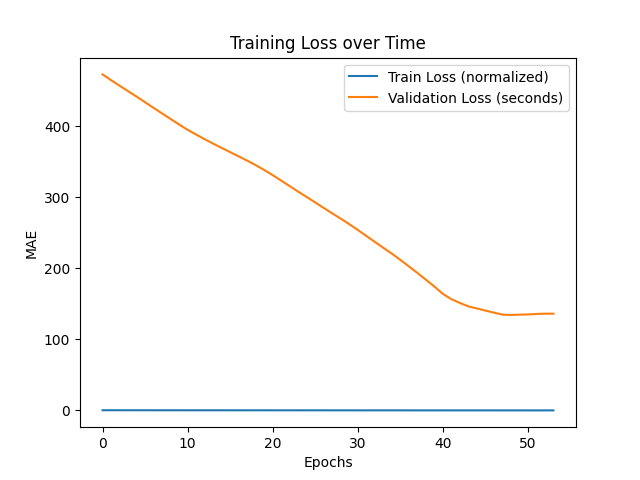
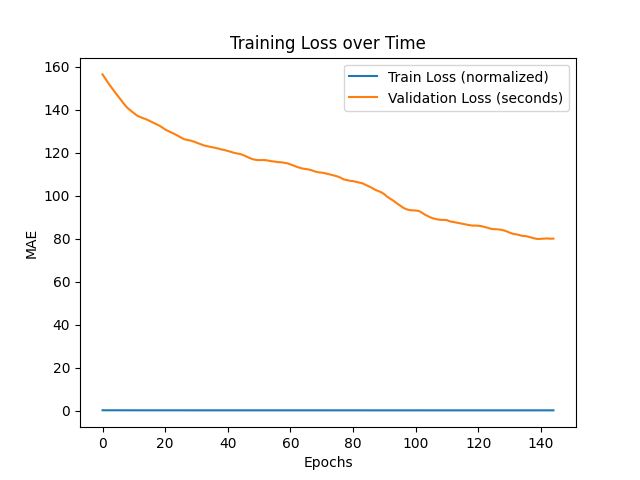
Enhance edge time estimation with embedding similarity
Updated timeCreation.py to use edge embeddings for estimating traversal times when direct data is missing, improving fallback accuracy. Modified runPythonScript.cs to select the correct Python executable based on OS. Updated training_loss.png with new data.

diff --git a/training-service/Helpers/timeCreation.py b/training-service/Helpers/timeCreation.py
@@ -2,17 +2,19 @@ import json
 import sys
 import random
 from pathlib import Path
+import numpy as np
 
 # === Start Parameters ===
 InputFile = Path(__file__).parent / "Datasets" / "RoadTraversal.json"
+EmbeddingFile = Path(__file__).parent / "Datasets" / "edgeEmbeddings.json"
 Route = json.loads(sys.argv[1])
 
 # === Function to calculate edge traversal times ===
-def get_edge_time(route, traversalData):
+def get_edge_time(route, traversalData, embeddings_dict):
     #Compute the traversal times for each edge in the route based on traversal data.
     times = []                  #List of times for each edge in the route
     bucketsAvailable = set()    #Creates a empty set with all available buckets for the route
-    
+
     for edgeId in route:                                           #This loop over each each in the route
         edge = str(edgeId)                                         #Convert the edge to string as our data is JSON
         if edge in traversalData:                                   #Check if the edge exist in the data
@@ -31,15 +33,29 @@ def get_edge_time(route, traversalData):
     # Compute the time of each edge with the chosen bucket
     for edgeId in route:                 #Loop over each edge in the route
         edge = str(edgeId)               #Convert the edge to string
-        
+          
         if edge not in traversalData:    #If the edge is not in the data, assign a default time of 0.0 seconds
             times.append(0.0)               
             continue
-
+        
         traversals = traversalData[edge].get("traversals", {})  #Get all traversals for that edge
-        if not traversals:                                      #If there is no data asign default 5.0 seconds  
-            times.append(5.0)
-            continue
+        if not traversals:                                     #If there is no data asign default 5.0 seconds 
+            vector = np.array(embeddings_dict[str(edgeId)], dtype=np.float32)
+            closest_edge = []
+            for other_edge_id, other_vector_list in embeddings_dict.items():
+                if other_edge_id == str(edgeId):
+                    continue  # skip itself
+                other_vector = np.array(other_vector_list, dtype=np.float32)
+                distance = np.linalg.norm(vector - other_vector)  # Euclidean distance
+                closest_edge.append((other_edge_id, distance))
+            closest_edge.sort(key=lambda x: x[1])
+            for other_edge_id, _ in closest_edge:
+                traversals = traversalData.get(other_edge_id, {}).get("traversals", {})
+                if traversals:
+                    break
+            if not traversals:
+                times.append(5.0)
+                continue
 
         bucket_keys = sorted(int(k) for k in traversals.keys())                 #Finding all bucket keys for that edge
         closest_bucket = min(bucket_keys, key=lambda k: abs(k - chosen_bucket)) #Find the key closest to the chosen bucket
@@ -50,6 +66,9 @@ def get_edge_time(route, traversalData):
 try:
     if not InputFile.is_file(): #Check if the file can be found, if not raise an error.
         raise FileNotFoundError(f'"RoadTraversal.json" does not exist. (Mising Dataset)')
+    
+    if not EmbeddingFile.is_file(): #Check if the file can be found, if not raise an error.
+        raise FileNotFoundError(f'"edgeEmbeddings.json" does not exist. (Mising Dataset)')
 
     #Opens the file and load data into "traversalData".
     with open(InputFile, "r") as f:
@@ -60,8 +79,15 @@ try:
     
     if not Route: #Check if the data is empty, if it is raise an error.
         raise ValueError('No route data provided. (Empty Route)')
+    
+    # Load embeddings once outside the loop
+    with open(EmbeddingFile, "r") as f:
+        embeddingData = json.load(f)
 
-    times = get_edge_time(Route, traversalData)
+    if not embeddingData: #Check if travalsalData is empty, if it is raise an error.
+        raise ValueError('"edgeEmbeddings.json" is empty or not loaded. (Empty Dataset)')    
+    
+    times = get_edge_time(Route, traversalData, embeddingData)
     print(json.dumps(times))
 except Exception as e:
     print(str(e), file=sys.stderr)

diff --git a/training-service/Helpers/runPythonScript.cs b/training-service/Helpers/runPythonScript.cs
@@ -1,5 +1,6 @@
 using System.Diagnostics;
 using System.IO;
+using System.Runtime.InteropServices;
 
 namespace Helpers;
 
@@ -11,7 +12,7 @@ public class runPythonScript
         
         var psi = new ProcessStartInfo
         {
-            FileName = "python3",
+            FileName = RuntimeInformation.IsOSPlatform(OSPlatform.Windows) ? "python" : "python3",
             Arguments = string.IsNullOrWhiteSpace(args) ? scriptPath : $"{scriptPath} {args}",
             RedirectStandardOutput = true,
             RedirectStandardError = true,
